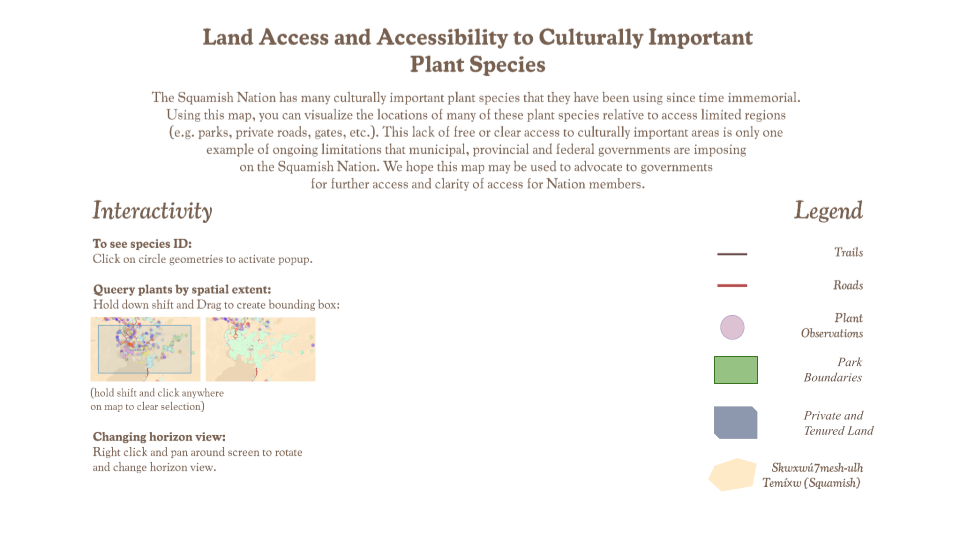
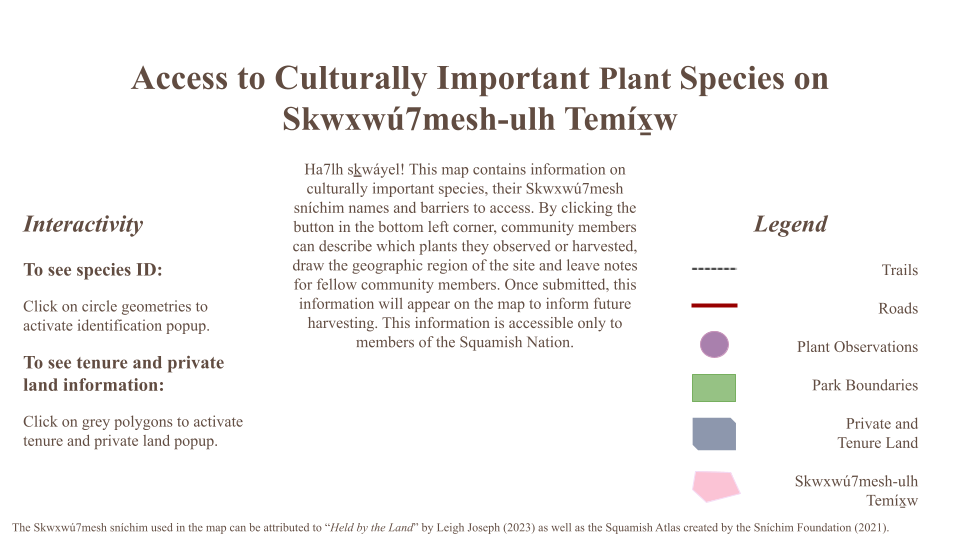
updated popup and Daily Working to be more user friendly/aesthetic

diff --git a/Daily_Working.html b/Daily_Working.html
@@ -126,6 +126,7 @@
         text-decoration: none;
         border-bottom: 1px solid #696969;
         text-align: center;
+        background-color: #ffffff; 
     }
 
     #menu a:last-child {
@@ -187,7 +188,7 @@
   
     <div id="popup_title" class="popup_title">
         <span class="close" onclick="togglePopup()">&times;</span>
-        <img id="popup_titleImg" src="UpdatedIntro.png" alt='Intro Slide'> 
+        <img id="popup_titleImg" src="accessintro.png" alt='Intro Slide'> 
     </div>
 
     <div id="map-overlay" class="map-overlay"></div>
@@ -258,6 +259,7 @@
                 id: 'private-land',
                 type: 'fill',
                 source: 'tenure-source', 
+                layout: {'visibility': 'none'}, 
                 paint: {
                     'fill-color': '#708090',
                     'fill-outline-color': '#708090',
@@ -348,9 +350,12 @@
 
             /// this layer is involved in queerying data 
       
-      
-            
-            map.addSource('squam_boundary', {
+//// Add Open 511 API to map as source and layer ////////////// 
+      //once given permission by GovBC, figure out way forward// 
+        
+   
+/////////// this is the squamish territory layer ////////////
+            map.addSource('squam-boundary', {
                 type: 'geojson',
                 data: 'https://raw.githubusercontent.com/lizmccleary/Squamish_Access_liz/main/squamish_boundary.geojson' // Replace with the URL of your GeoJSON data
             });
@@ -358,7 +363,7 @@
             map.addLayer({
                 id: 'squamish-boundary',
                 type: 'fill',
-                source: 'squam_boundary',
+                source: 'squam-boundary',
                 layout: {
                     'visibility': 'visible'
                 },
@@ -369,9 +374,8 @@
                 }
             },
             );
-            /// this is the squamish territory layer 
           
-      
+/////// this is the BC Parks layer /////////
             map.addSource('parks_boundary', {
                 type: 'geojson',
                 data: 'https://raw.githubusercontent.com/lizmccleary/Squamish_Access_liz/main/parks_boundary.geojson' // Replace with the URL of your GeoJSON data
@@ -382,7 +386,7 @@
                 type: 'fill',
                 source: 'parks_boundary',
                 layout: {
-                    'visibility': 'visible'
+                    'visibility': 'none'
                 },
                 paint: {
                     'fill-color': '#367c2b',
@@ -409,9 +413,9 @@
                 }
             },
             );
-      
-
     }); 
+      
+      
 // After the last frame rendered before the map enters an "idle" state.
     map.on('idle', () => {
         // If these three layers were not added to the map, abort
@@ -435,6 +439,10 @@
             link.href = '#';
             link.textContent = id;
             link.className = 'active';
+          
+          // Set initial class based on layer visibility
+        const visibility = map.getLayoutProperty(id, 'visibility');
+        link.className = (visibility === 'visible') ? 'active' : '';
 
             // Show or hide layer when the toggle is clicked.
             link.onclick = function (e) {
@@ -447,7 +455,7 @@
                     'visibility'
                 );
 
-                // Toggle layer visibility by changing the layout object's visibility property.
+               // Toggle layer visibility by changing the layout object's visibility property.
                 if (visibility === 'visible') {
                     map.setLayoutProperty(clickedLayer, 'visibility', 'none');
                     this.className = '';
@@ -465,7 +473,6 @@
             layers.appendChild(link);
         }
     });
-
             
 ///// Create popup for squam-plants /////////////////
             map.on('click', 'squamish-plants', (e) => {
